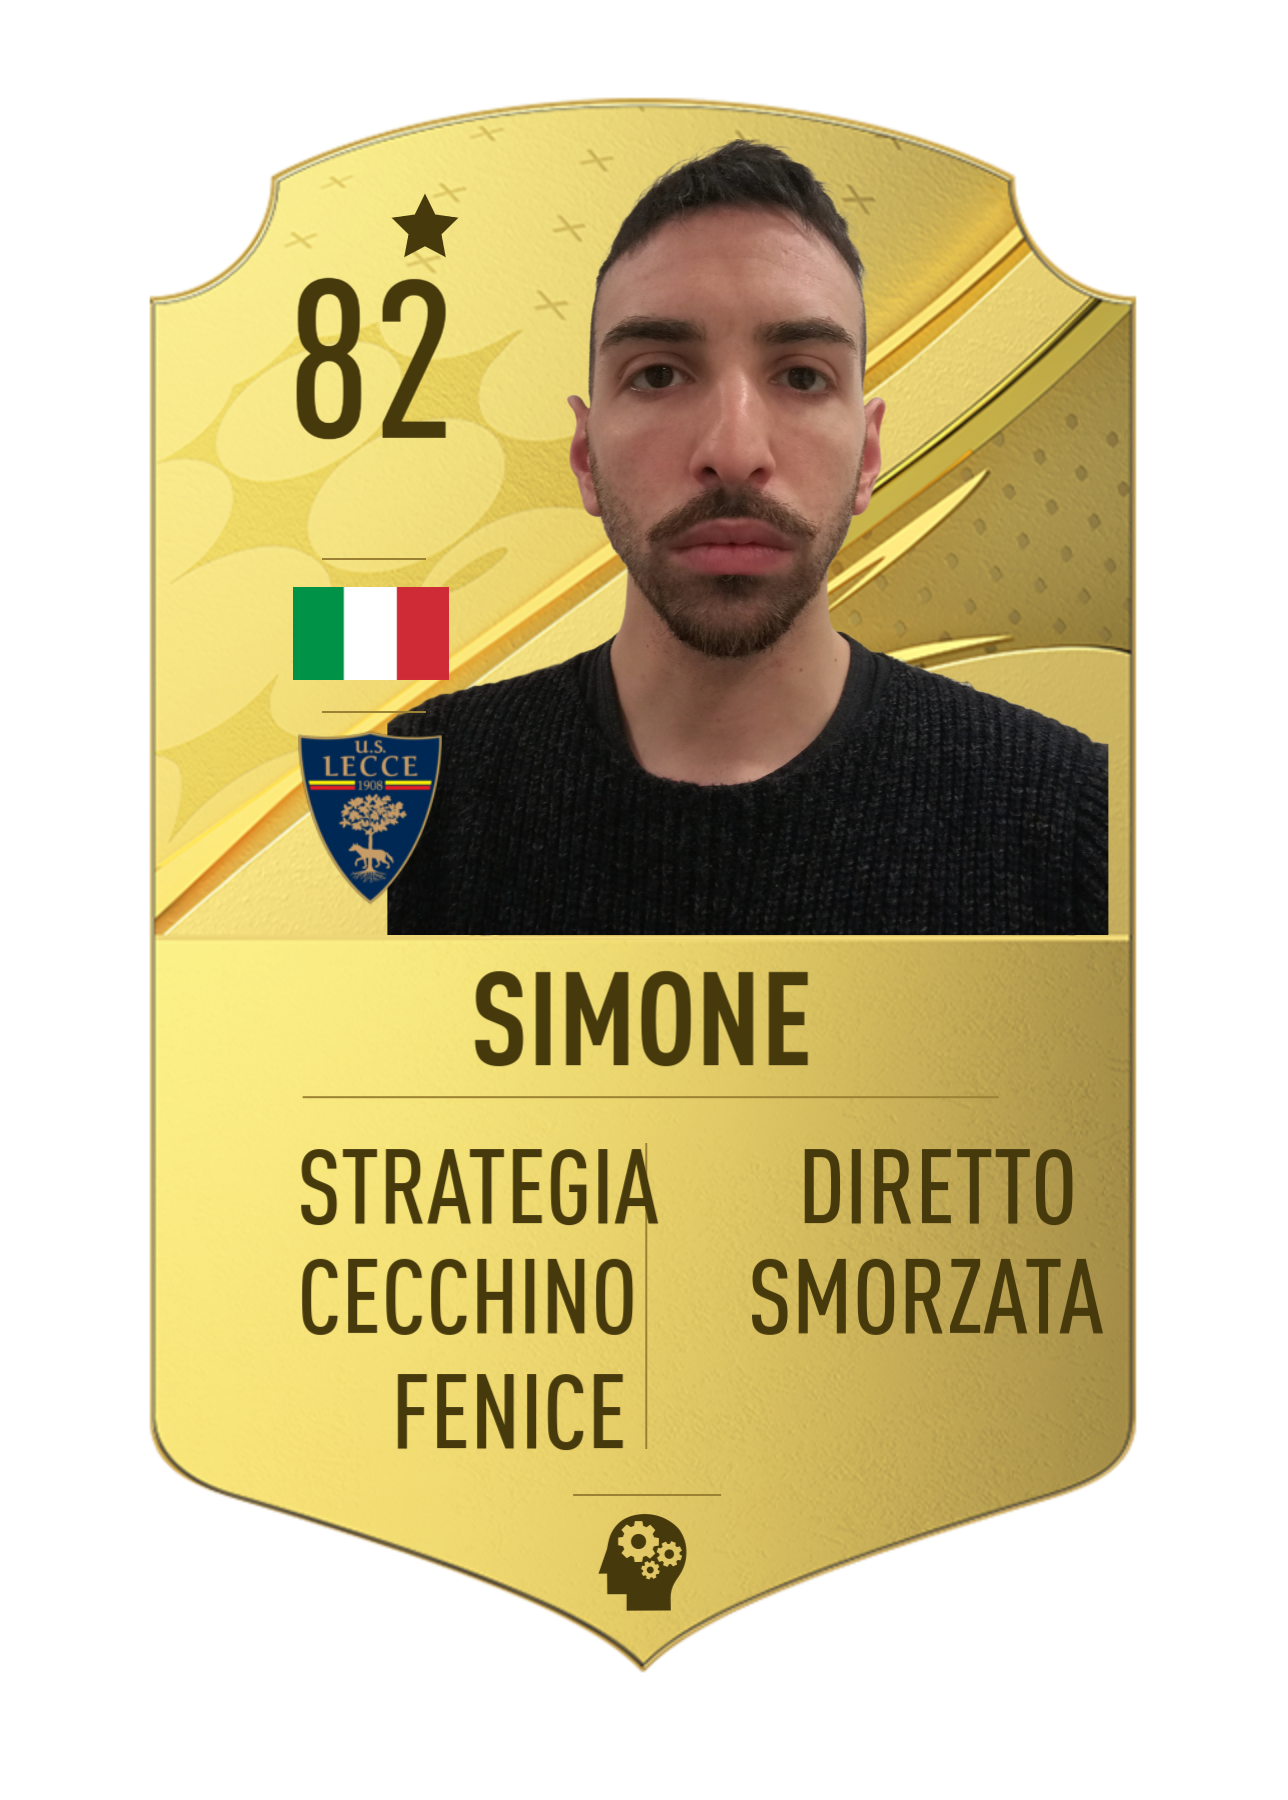
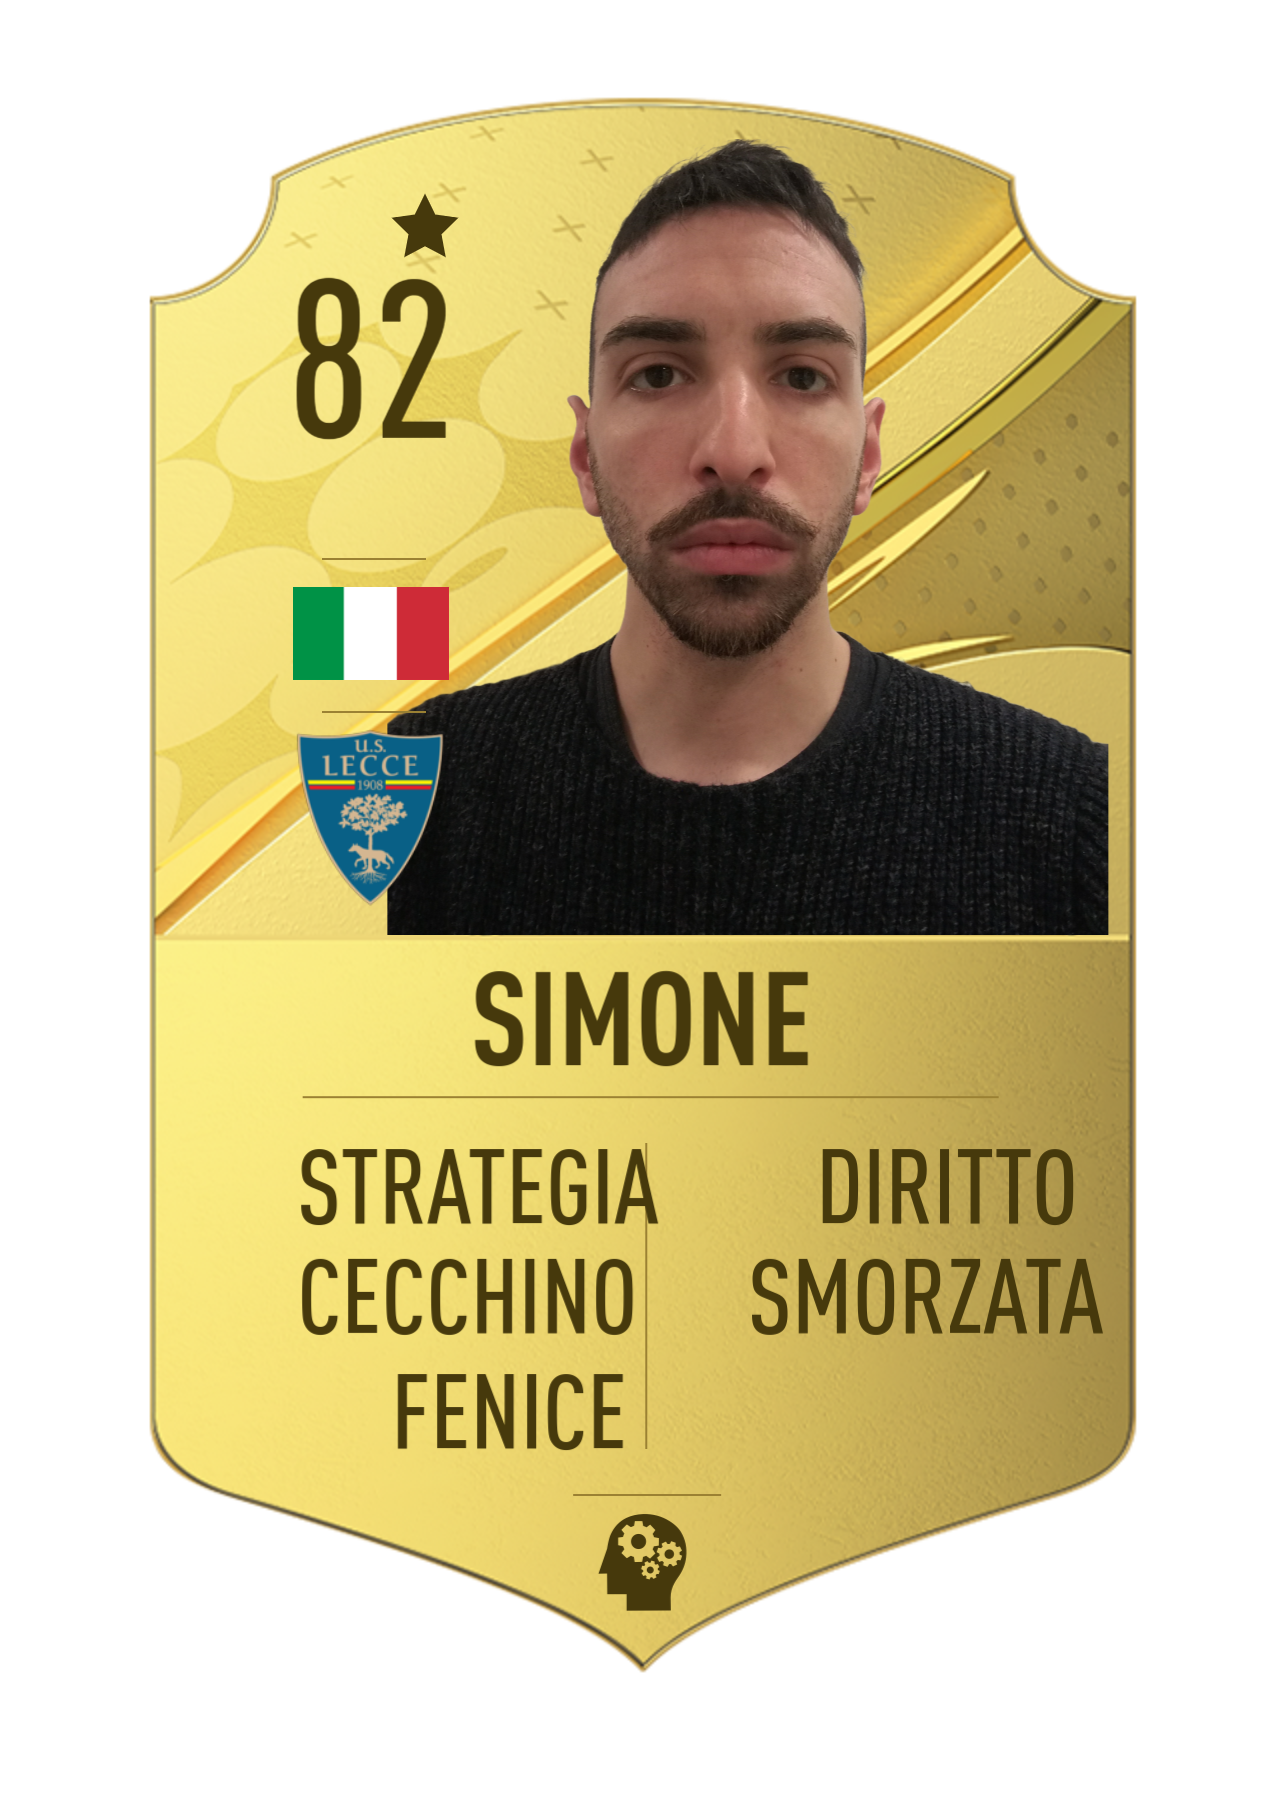
update

Changed region(s): [[0.2174, 0.4044, 0.3416, 0.4978], [0.6211, 0.6222, 0.7453, 0.6844]]

diff --git a/index.js b/index.js
@@ -270,7 +270,7 @@ function createRadarChart(isPlayer1) {
             show: false,
         },
         xaxis: {
-            categories: ['SERVIZIO', 'SMASH', 'ROVESCIO', 'SMORZATA', 'VOLEE', 'DIRETTO'],
+            categories: ['SERVIZIO', 'SMASH', 'ROVESCIO', 'SMORZATA', 'VOLEE', 'DIRITTO'],
             labels: {
                 show: true,
                 style: {
